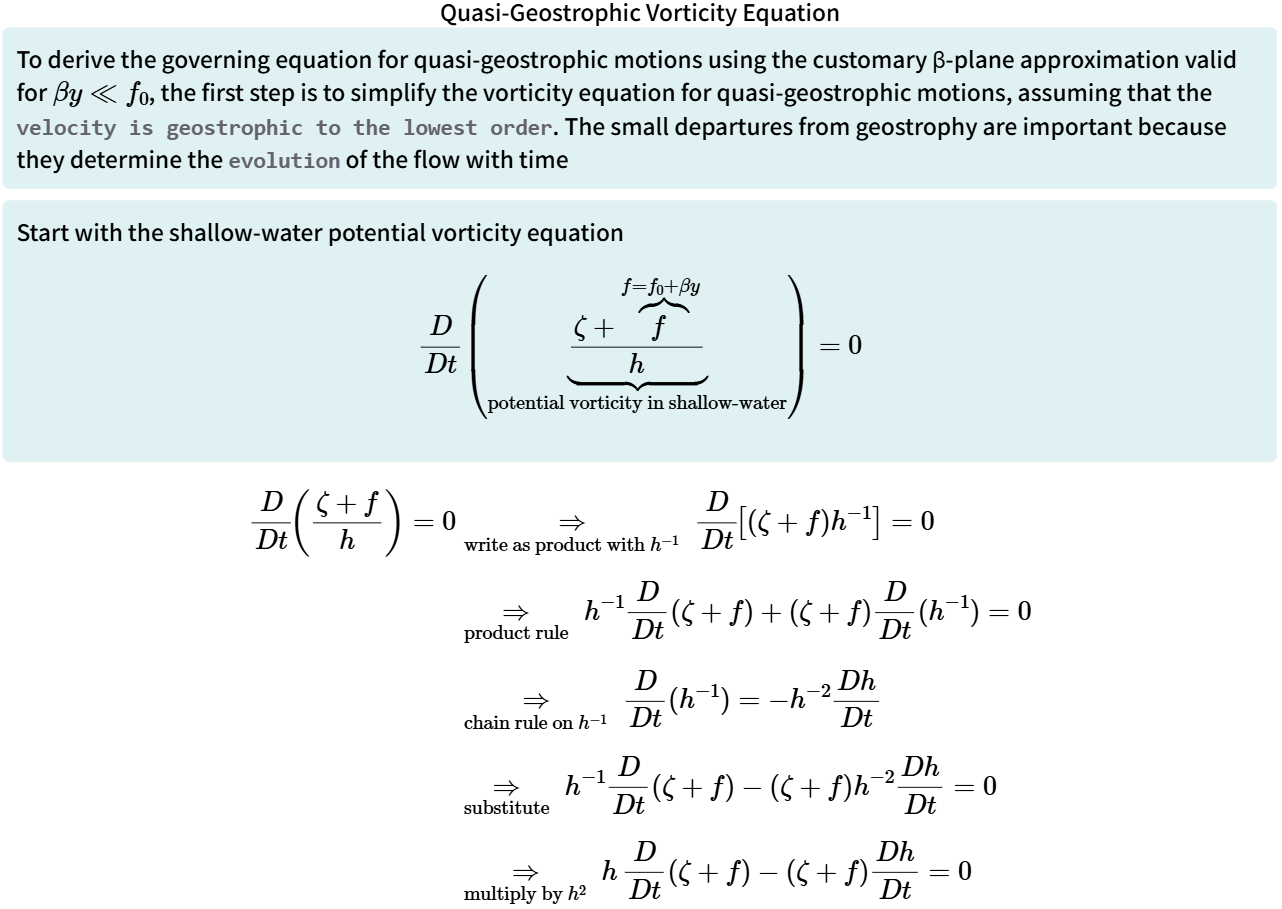
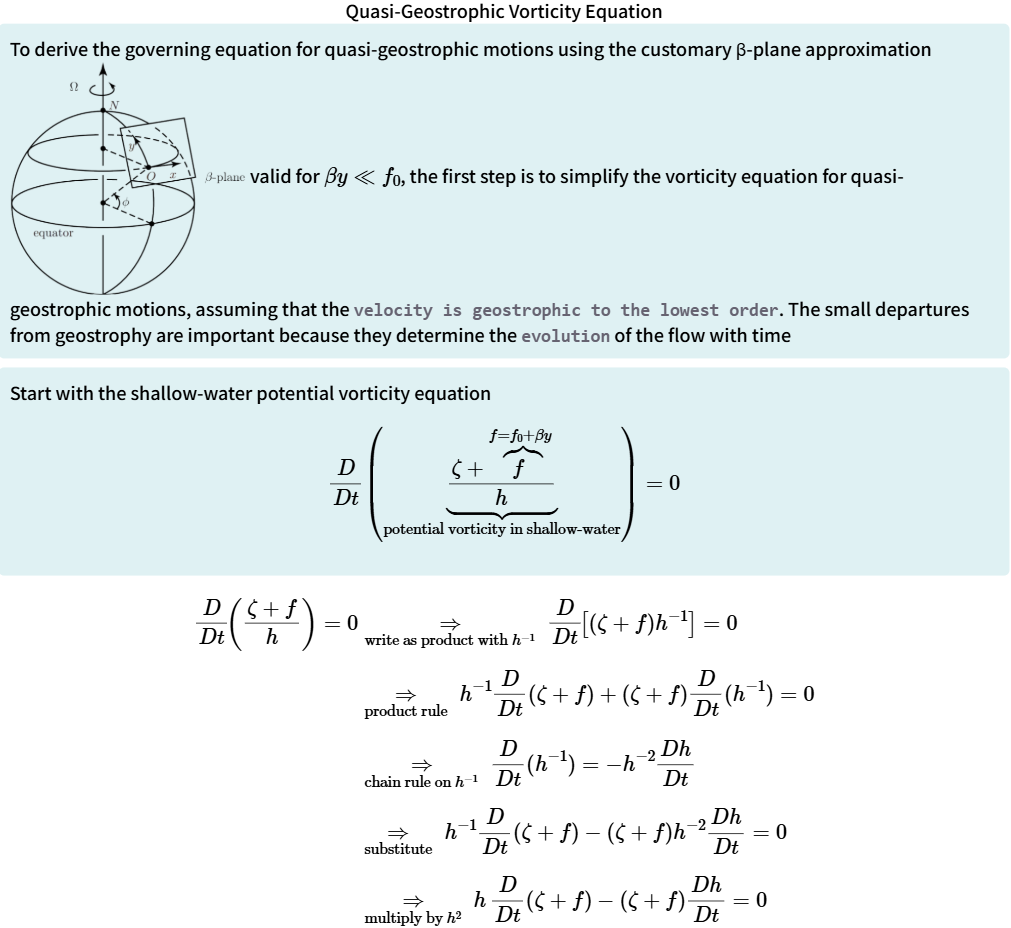
Update

Changed region(s): [[0.0, 0.0, 1.0, 1.0], [0.7666, 0.8625, 0.7972, 0.8933]]

diff --git a/Lecture3BSlide36.html b/Lecture3BSlide36.html
@@ -146,39 +146,30 @@ window.addEventListener('resize', scaleContainer);
 <body>
     <div class="container">
         <div class="title">Dispersion Relation for Rossby Waves</div>
-<div class="description">
-$$
-\omega
-= -\frac{
-\overbrace{\beta k}^{\substack{\text{$\beta$-effect} \\ \text{(zonal wavenumber $k$)}}}
-}{
-\underbrace{k^{2} + l^{2} + \frac{f_{0}^{2}}{c^{2}}}_{\substack{\text{total wavenumber $K^2$ plus} \\ \text{deformation term $f_0^2/c^2$}}}
-}
-$$
-This is the dispersion relation for <span class='sql'>Rossby waves</span>
+<p>
+\[\boxed{\omega = -\frac{\beta k}{k^2 + l^2 + f_0^2/c^2}}\]
+$\omega(k,l)$ can be displayed as a surface, taking $k$ and $l$ along Cartesian axes and plotting contours of constant $\omega$
+</p>
+<div class="image-container" style="text-align: left;">
+<p>Dispersion relation $\omega(k,l)$ for a Rossby wave with $\omega$ versus $k$ for $l = 0$. Regions of positive and negative group velocity $c_{gx}$ are indicated.</p>
+<img src="Figures/Lecture3B_RossbyDispersionl0.png" alt="RossbyDispersionl0" style="max-width: 49%; height: auto; display: block; margin: auto;"> 
 </div>
-$$
-\begin{aligned}
-&\underbrace{\text{Only $k$ in numerator; $l$ only in $K^{2}$}}_{\text{$\beta$-effect anisotropy}}
-\Longrightarrow
-\text{not horizontally isotropic; sign of $k$ sets phase direction (for $\beta>0$)}
-\\
-&\text{For stratified flows, replace $c$ by:}\quad
-\begin{cases}
-c^{2} = g'H &\text{(reduced-gravity 1½-layer)}\\
-c = \dfrac{NH}{n\pi} &\text{($n$th mode of continuously stratified model)}
-\end{cases}
-\\[8pt]
-&\text{Barotropic mode: } c \ \text{very large} \ \Rightarrow \ f_{0}^{2}/c^{2} \approx 0
-\quad\Longrightarrow\quad
-\omega \approx -\frac{\beta k}{k^{2} + l^{2}}
-\end{aligned}
-$$
+
+<div class="image-container" style="text-align: left;">
+<img src="Figures/Lecture3B_RossbyDispersionCircle.png" alt="RossbyDispersionCircle" style="max-width: 69%; height: auto; display: block; margin: auto;"> 
+<p>A plane view of the surface $\omega(k,l)$, showing contours of constant $\omega$ on a $kl$-plane.
+    Arrows perpendicular to the largest circular constant-$\omega$ contour indicate directions of the group velocity vector $\mathbf{c_g}$.
+    These contours are circles because \(\boxed{\omega = -\frac{\beta k}{k^2 + l^2 + f_0^2/c^2}}\) can be written as
+\[
+\left(k + \frac{\beta}{2\omega}\right)^2 + l^2 = \left(\frac{\beta}{2\omega}\right)^2 - \frac{f_0^2}{c^2}
+\]
+</p>
+</div>
 
         <!-- Left Arrow to go back to Slide  -->
-        <a href="Lecture3BSlide34.html" class="nav-button left">&#9664;</a>
+        <a href="Lecture3BSlide35.html" class="nav-button left">&#9664;</a>
         <!-- Right Arrow to go to Slide  -->
-        <a href="Lecture3BSlide36.html" class="nav-button right">&#9654;</a>
+        <a href="Lecture3BSlide37.html" class="nav-button right">&#9654;</a>
     </div>
 </body>
 </html>

diff --git a/Lecture3BSlide37.html b/Lecture3BSlide37.html
@@ -146,39 +146,12 @@ window.addEventListener('resize', scaleContainer);
 <body>
     <div class="container">
         <div class="title">Dispersion Relation for Rossby Waves</div>
-<div class="description">
-$$
-\omega
-= -\frac{
-\overbrace{\beta k}^{\substack{\text{$\beta$-effect} \\ \text{(zonal wavenumber $k$)}}}
-}{
-\underbrace{k^{2} + l^{2} + \frac{f_{0}^{2}}{c^{2}}}_{\substack{\text{total wavenumber $K^2$ plus} \\ \text{deformation term $f_0^2/c^2$}}}
-}
-$$
-This is the dispersion relation for <span class='sql'>Rossby waves</span>
-</div>
-$$
-\begin{aligned}
-&\underbrace{\text{Only $k$ in numerator; $l$ only in $K^{2}$}}_{\text{$\beta$-effect anisotropy}}
-\Longrightarrow
-\text{not horizontally isotropic; sign of $k$ sets phase direction (for $\beta>0$)}
-\\
-&\text{For stratified flows, replace $c$ by:}\quad
-\begin{cases}
-c^{2} = g'H &\text{(reduced-gravity 1½-layer)}\\
-c = \dfrac{NH}{n\pi} &\text{($n$th mode of continuously stratified model)}
-\end{cases}
-\\[8pt]
-&\text{Barotropic mode: } c \ \text{very large} \ \Rightarrow \ f_{0}^{2}/c^{2} \approx 0
-\quad\Longrightarrow\quad
-\omega \approx -\frac{\beta k}{k^{2} + l^{2}}
-\end{aligned}
-$$
+
 
         <!-- Left Arrow to go back to Slide  -->
-        <a href="Lecture3BSlide34.html" class="nav-button left">&#9664;</a>
+        <a href="Lecture3BSlide36.html" class="nav-button left">&#9664;</a>
         <!-- Right Arrow to go to Slide  -->
-        <a href="Lecture3BSlide36.html" class="nav-button right">&#9654;</a>
+        <a href="Lecture3BSlide38.html" class="nav-button right">&#9654;</a>
     </div>
 </body>
 </html>

diff --git a/Lecture3BSlide31.html b/Lecture3BSlide31.html
@@ -147,7 +147,9 @@ window.addEventListener('resize', scaleContainer);
     <div class="container">
         <div class="title">Quasi-Geostrophic Vorticity Equation</div>
 <div class="description">
-To derive the governing equation for quasi-geostrophic motions using the customary β-plane approximation valid for $\beta y \ll f_0$,
+To derive the governing equation for quasi-geostrophic motions using the customary β-plane approximation <img src="Figures/Lecture3B_BetaPlane.png" 
+                alt="BetaPlane" 
+                style="height: 13em; vertical-align: middle;"> valid for $\beta y \ll f_0$,
 the first step is to simplify the vorticity equation for quasi-geostrophic motions, 
 assuming that the <span class='sql'>velocity is geostrophic to the lowest order</span>. 
 The small departures from geostrophy are important because they determine the <span class='sql'>evolution</span> of the flow with time

diff --git a/Lecture3BOverview.html b/Lecture3BOverview.html
@@ -343,6 +343,18 @@
                 <img src="Figures/Lecture3BSlide36.png" alt="Slide 36">
             </div>
         </a>
+        <a href="Lecture3BSlide37.html" class="slide-link">
+            <div class="slide-box">
+                <img src="Figures/Lecture3BSlide37.png" alt="Slide 37">
+            </div>
+        </a>
+        <a href="Lecture3BSlide38.html" class="slide-link">
+            <div class="slide-box">
+                <img src="Figures/Lecture3BSlide38.png" alt="Slide 38">
+            </div>
+        </a>
+
+
     </div>
 
 </body>
